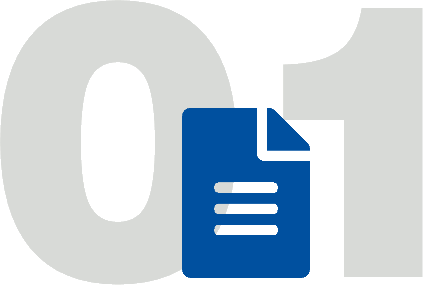
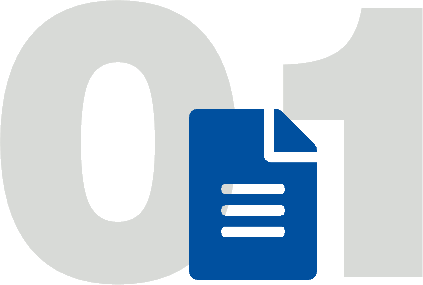
редактирование главной страницы

diff --git a/templates/Main/Main.html b/templates/Main/Main.html
@@ -305,7 +305,7 @@
                                     <div class="col-lg-4 col-xl-4 pb-3 d-inline-block">
                                         <div class="row m-0 p-0 justify-content-center align-items-center h-100">
                                             <div class="col-9 p-0" >
-                                                <img src="{% static 'image/01.png' %}" alt="" class="w-100">
+                                                <img src="{% static 'image/01_new.png' %}" alt="" class="w-100">
                                             </div>
                                             <div class="col-12 pt-3">
                                                 <label class="label-normal-work m-auto pt-0 pb-0 mb-0 align-c w-100">ЗАПОЛНЕНИЕ БРИФА</label>
